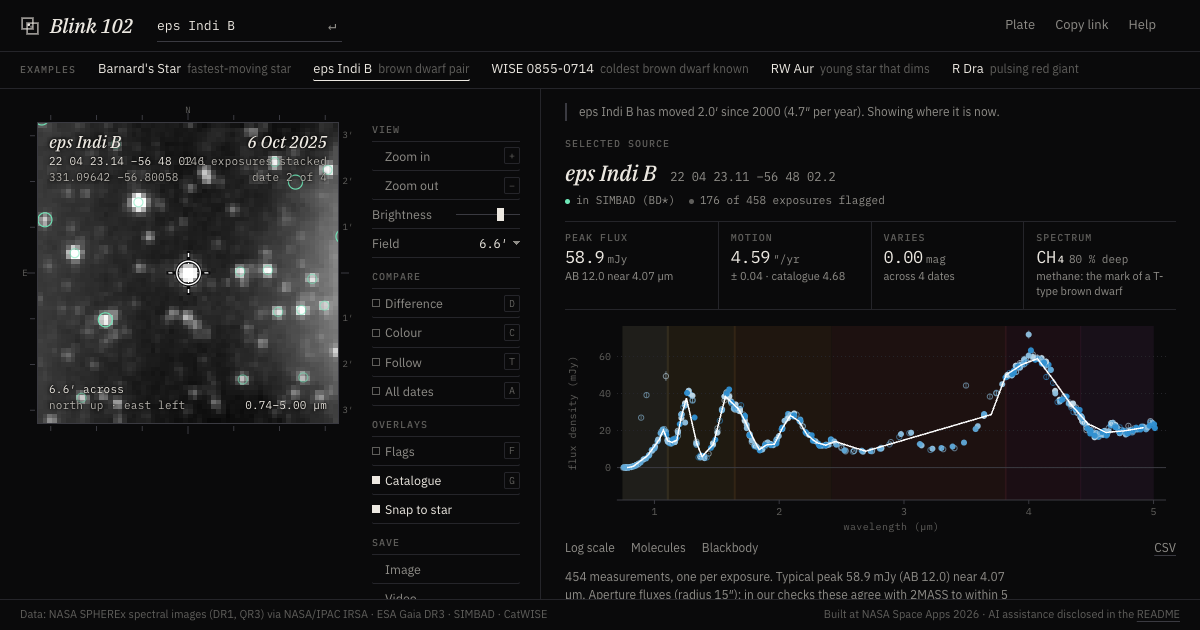
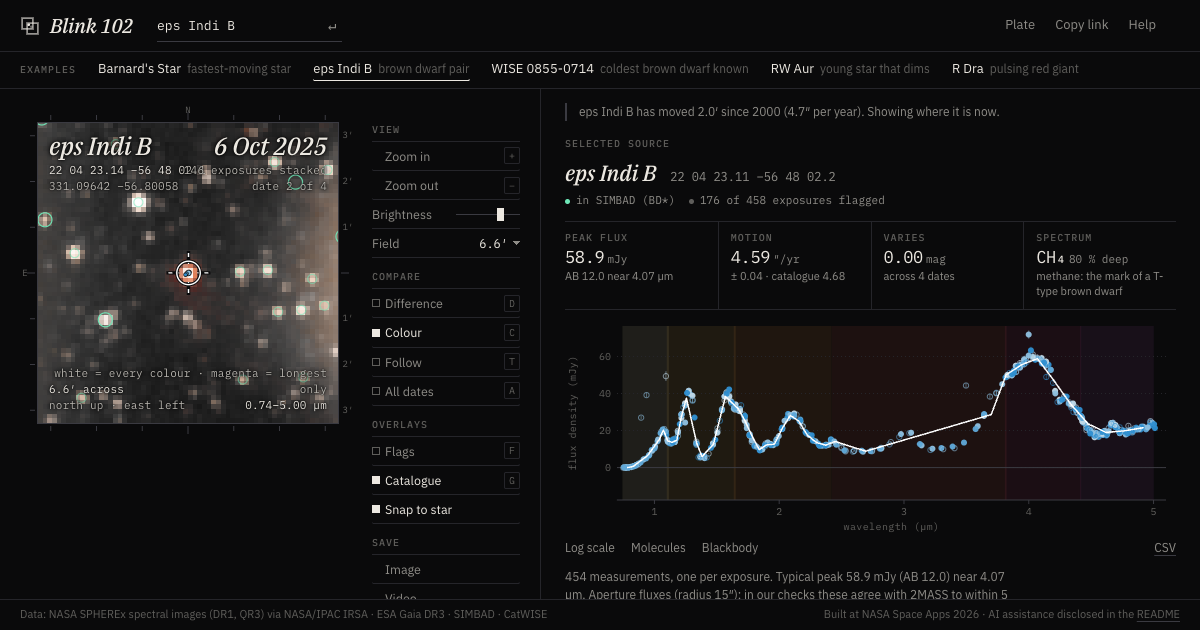
Infrared colour by default, 1930-to-2026 opening, colour-ramp strip with arriving ticks, drawn-in motion track and spectrum, larger type

diff --git a/public/app.js b/public/app.js
@@ -23,6 +23,7 @@ const S = {                      // everything the page shows is derived from th
   lim: null, sel: null, meas: [], peek: null, catalog: [], movers: [], tab: 'lc', log: false, mol: false, bb: false, sweep: null, follow: false, merge: false,
 };
 let cacheIndex = null, dirty = false, timer = null;
+if (/^(localhost|127\.0\.0\.1)$/.test(location.hostname)) window.__S = S;      // dev only: inspect state from the console
 
 // ---------- small helpers ----------
 const rgb = s => s.match(/[\d.]+/g).slice(0, 3).map(Number);
@@ -116,7 +117,7 @@ async function fetchChunks(chunks, gen) {
         if (gen !== S.gen) return;
         for (const e of list) {
           if (!e.ok) { S.failed++; continue; }
-          e.epoch = S.byKey.get(e.key)?.epoch ?? 0;
+          e.epoch = S.byKey.get(e.key)?.epoch ?? 0; e.t = performance.now();
           S.exps.push(e);
         }
       } catch { S.failed += ch.keys?.length || 0; }
@@ -179,21 +180,50 @@ function rawFrames() {
   return S.raw.frames;
 }
 
+// ---------- infrared colour: every wavelength drawn in its own colour from the warm ramp ----------
+const RAMP = ['#F6E8B1', '#F5BE4A', '#F08C3A', '#E2553F', '#CC3B74', '#A24AA8'].map(h => [1, 3, 5].map(i => parseInt(h.slice(i, i + 2), 16) / 255));
+const RAMP_AT = K.DET.map(([a, b]) => Math.log(Math.sqrt(a * b)));
+/** The ramp colour of a wavelength (um): the same colours as the colour bar, interpolated between detector centres. */
+function waveColor(w) {
+  const x = Math.log(w);
+  if (x <= RAMP_AT[0]) return RAMP[0];
+  if (x >= RAMP_AT[5]) return RAMP[5];
+  let i = 0;
+  while (x > RAMP_AT[i + 1]) i++;
+  const u = (x - RAMP_AT[i]) / (RAMP_AT[i + 1] - RAMP_AT[i]);
+  return RAMP[i].map((v, k) => v + (RAMP[i + 1][k] - v) * u);
+}
+/** Colour bins for the current window: six for a wide window (each dot gets its own colour), none for a narrow one (tint). */
+function colourBins() {
+  const narrow = LN(S.wmax / S.wmin) < 0.35, n = narrow ? 0 : 6;
+  const edges = Array.from({ length: n + 1 }, (_, i) => Math.exp(LN(S.wmin) + (LN(S.wmax) - LN(S.wmin)) * i / n));
+  return { narrow, tint: waveColor(Math.sqrt(S.wmin * S.wmax)), edges, cols: edges.slice(0, -1).map((a, i) => waveColor(Math.sqrt(a * edges[i + 1]))) };
+}
+/** Swap light and dark but keep the hue, for the Plate theme. */
+function invertLightness(R, G, B) {
+  const mx = Math.max(R, G, B), mn = Math.min(R, G, B), l = (mx + mn) / 2, d = mx - mn;
+  if (d < 1e-6) return [1 - l, 1 - l, 1 - l];
+  const s = d / (1 - Math.abs(2 * l - 1)), L = 1 - l, C = (1 - Math.abs(2 * L - 1)) * s, m = L - C / 2;
+  return [R, G, B].map(v => m + (v - mn) / d * C);
+}
+const smooth = (x, a, b) => { const u = Math.min(1, Math.max(0, (x - a) / (b - a))); return u * u * (3 - 2 * u); };
+
 // ---------- frames: one stacked picture per date ----------
 const inBand = e => e.wave >= S.wmin && e.wave <= S.wmax;
 function invalidate(restack = true) {
   if (restack) dirty = true;
-  if (!timer) timer = setTimeout(() => { timer = null; if (dirty) { dirty = false; computeFrames(); if (S.sel) measure(); } renderAll(); }, 60);
+  if (!timer) timer = setTimeout(() => { timer = null; if (dirty) { dirty = false; computeFrames(); if (S.sel) measure(); } renderAll();
+    if (S.introPending && S.frames.length > 1 && S.frames.every(Boolean)) { S.introPending = false; intro(); } }, 60);
 }
 
 function computeFrames() {
   if (!S.search) return;
-  const size = S.size, thirds = [0, 1, 2].map(i => Math.exp(LN(S.wmin) + (LN(S.wmax) - LN(S.wmin)) * i / 3)).concat(S.wmax);
+  const size = S.size, bins = S.bins = colourBins();
   const build = (list, ep) => {
     if (!list.length) return null;
     const ex = list.map(viewExp), f = K.stack(ex, size);
     f.count = ex.length; f.mjd = K.median(ex.map(e => e.mjd)); f.epoch = ep; f.span = [Math.min(...ex.map(e => e.mjd)), Math.max(...ex.map(e => e.mjd))];
-    if (S.rgb) f.rgb = [2, 1, 0].map(k => { const sub = ex.filter(e => e.wave >= thirds[k] && e.wave <= thirds[k + 1]); return sub.length ? K.stack(sub, size).img : null; });
+    if (S.rgb && !bins.narrow) f.rgb = bins.cols.map((_, k) => { const sub = ex.filter(e => e.wave >= bins.edges[k] && e.wave <= bins.edges[k + 1]); return sub.length ? K.stack(sub, size).img : null; });
     return f;
   };
   if (S.merge) { const one = build(S.exps.filter(inBand), null); S.frames = S.search.epochs.map(() => one); }      // every date in one deep picture
@@ -208,7 +238,7 @@ function computeFrames() {
   const lims = imgs => { const big = imgs.flatMap(a => Array.from(a)), [med, sig] = K.robust(big); return { lo: med - 2 * sig, sig: sig || 1e-6, hi: K.percentile(big, 0.995) }; };
   S.lim = lims(live.map(f => f.img));           // one set of limits for every date, so brightness changes are real
   if (S.diff) S.lim.dsig = K.robust(live.flatMap(f => Array.from(f.diff)))[1] || 1e-6;
-  if (S.rgb) S.lim.rgb = [0, 1, 2].map(k => { const im = live.map(f => f.rgb[k]).filter(Boolean); return im.length ? lims(im) : null; });
+  if (S.rgb && !bins.narrow) S.lim.rgb = bins.cols.map((_, k) => { const im = live.map(f => f.rgb?.[k]).filter(Boolean); return im.length ? lims(im) : null; });
 }
 
 const stretcher = lim => { const soft = 3 * lim.sig, hi = lim.lo + (lim.hi - lim.lo) * 10 ** -S.bright, d = Math.asinh(Math.max(hi - lim.lo, soft) / soft);
@@ -216,20 +246,42 @@ const stretcher = lim => { const soft = 3 * lim.sig, hi = lim.lo + (lim.hi - lim
 
 /** Paint a frame (or one exposure) into a size x size canvas. Row 0 is south, so rows are flipped. */
 function paint(cv, src) {
-  const size = S.size, plate = document.querySelector('meta[name="color-scheme"]').content === 'light';
+  const size = S.size, plate = S.introPlate ?? document.querySelector('meta[name="color-scheme"]').content === 'light';
   cv.width = cv.height = size;
   const ctx = cv.getContext('2d'), id = ctx.createImageData(size, size), d = id.data;
   if (!src || !S.lim) { ctx.clearRect(0, 0, size, size); return; }
   const st = stretcher(S.lim), nanv = plate ? 235 : 22;
-  const st3 = src.rgb && S.rgb ? S.lim.rgb.map(l => l && stretcher(l)) : null;
+  const colour = S.rgb && !S.diff && !S.introGrey, bins = S.bins || colourBins();
+  // a single exposure, or a narrow window, is tinted with its own colour; a wide window gives every dot its own colour
+  const tint = colour && (src.wave ? waveColor(src.wave) : bins.narrow ? bins.tint : null);
+  // one brightness scale for every colour bin, so a dot's colour is the real shape of its spectrum (flux per frequency)
+  const st6 = colour && !tint && src.rgb ? src.rgb.map(() => st) : null, cols = bins.cols;
   for (let r = 0; r < size; r++) for (let c = 0; c < size; c++) {
     const p = r * size + c, o = ((size - 1 - r) * size + c) * 4;
     let R, G, B;
     if (src.diff && S.diff) { const t = 0.5 + src.diff[p] / (16 * S.lim.dsig * 10 ** -S.bright); R = G = B = t !== t ? NaN : Math.min(1, Math.max(0, t)); }
-    else if (st3) [R, G, B] = st3.map((f, k) => (f && src.rgb[k] ? f(src.rgb[k][p]) : 0));
-    else R = G = B = st(src.img[p]);
+    else if (st6) {
+      // brightness from all colours; hue from where the light is, so a dot bright only at long wavelengths turns magenta
+      let sum = 0, mx = 0, mn = Infinity, cr = 0, cg = 0, cb = 0, n = 0;
+      for (let k = 0; k < st6.length; k++) {
+        if (!st6[k] || !src.rgb[k]) continue;
+        const s = st6[k](src.rgb[k][p]);
+        if (s !== s) continue;
+        n++; sum += s; if (s > mx) mx = s; if (s < mn) mn = s;
+        cr += s * cols[k][0]; cg += s * cols[k][1]; cb += s * cols[k][2];
+      }
+      if (!n) R = G = B = st(src.img[p]);
+      else {
+        const I = Math.min(1, 0.55 * sum / n + 0.45 * mx), top = Math.max(cr, cg, cb) || 1;
+        const sat = Math.min(1, 1.25 * (mx - mn) / (mx + mn + 1e-6)) * smooth(mx, 0.18, 0.5);      // the faint sky stays grey
+        R = I * (1 - sat + sat * cr / top); G = I * (1 - sat + sat * cg / top); B = I * (1 - sat + sat * cb / top);
+      }
+    } else {
+      R = G = B = st(src.img[p]);
+      if (tint && R === R) { const v = R, a = 0.75 * smooth(v, 0.08, 0.45); R = v * (1 - a + a * tint[0]); G = v * (1 - a + a * tint[1]); B = v * (1 - a + a * tint[2]); }      // stars take the colour, the faint sky stays grey
+    }
     if (R !== R) { d[o] = d[o + 1] = d[o + 2] = nanv; d[o + 3] = 255; continue; }
-    if (plate) { R = 1 - R; G = 1 - G; B = 1 - B; }
+    if (plate) [R, G, B] = R === G && G === B ? [1 - R, 1 - G, 1 - B] : invertLightness(R, G, B);
     d[o] = 255 * R; d[o + 1] = 255 * G; d[o + 2] = 255 * B; d[o + 3] = 255;
   }
   ctx.putImageData(id, 0, 0);
@@ -262,7 +314,7 @@ function renderEye(target = $('#img'), over = $('#ovl')) {
   $('#hud-epoch').innerHTML = !ep ? '' : cur.one ? `<b>${fmtDate(cur.mjd)}</b>\n<i>one exposure · detector ${cur.src.det}</i>\n<i>${cur.src.wave.toFixed(3)} µm</i>`
     : S.merge && cur.src ? `<b>All dates</b>\n<i>${cur.src.count} exposures stacked</i>\n<i>${monthYear(cur.src.span[0])} – ${monthYear(cur.src.span[1])}</i>`
     : `<b>${fmtDate(cur.mjd)}</b>\n<i>${cur.src ? `${cur.src.count} exposures stacked` : 'no exposures in this colour range'}</i>\n<i>date ${S.frame + 1} of ${S.search.epochs.length}</i>`;
-  const mode = [S.diff && 'difference', S.rgb && 'colour: short = blue, long = red', S.follow && canFollow() && 'following the selected object'].filter(Boolean).join('\n');
+  const mode = [S.diff && 'difference', S.rgb && !S.diff && ((S.bins || colourBins()).narrow ? 'tinted with this colour' : 'white = every colour · magenta = longest only'), S.follow && canFollow() && 'following the selected object'].filter(Boolean).join('\n');
   $('#hud-wave').innerHTML = `${mode ? `<i>${mode}</i>\n` : ''}${S.wmin.toFixed(2)}–${S.wmax.toFixed(2)} µm`;
   $('#hud-scale').innerHTML = `${(S.size * K.PIX / 60 / S.zoom).toFixed(1)}′ across\n<i>north up · east left</i>`;
   if (target.id === 'img') renderBezel();
@@ -300,6 +352,7 @@ function halo(g, dpr, dash = []) {
 
 function drawOverlay(cv, W, cur) {
   cv.width = cv.height = W;
+  if (S.introOn) return;                       // the opening shows the bare plates
   const g = cv.getContext('2d'), dpr = W / (cv.clientWidth || W), cell = W / view().sw, size = S.size;
   g.lineWidth = 1.2 * dpr;
   const f = S.frames[S.frame];
@@ -342,6 +395,16 @@ function drawOverlay(cv, W, cur) {
     const dt = (cur.mjd - m.mjd0) / 365.25, [x, y] = toScreen(m.col - m.pe * dt / K.PIX - fx, m.row + m.pn * dt / K.PIX - fy, W);
     g.strokeStyle = m.known ? css('--known') : css('--found'); g.lineWidth = 2 * dpr; g.beginPath(); g.arc(x, y, 9 * dpr, 0, 7); g.stroke(); g.lineWidth = 1.2 * dpr;
   }
+  if (S.sel && (S.sel.pmra || S.sel.pmde) && !(S.follow && canFollow()) && S.search) {
+    // where it is on every date, joined in time order: its path across the sky, drawn in when it is selected
+    const pts = S.search.epochs.map((ep, i) => { const [c, r] = selGrid((ep.mjd0 + ep.mjd1) / 2); return [...toScreen(c, r, W), i]; });
+    const u = Math.min(1, (performance.now() - (S.sel.t0 || 0)) / 900), reach = u * (pts.length - 1);
+    g.beginPath(); g.moveTo(pts[0][0], pts[0][1]);
+    for (let i = 1; i < pts.length && i - 1 < reach; i++) { const f = Math.min(1, reach - (i - 1)); g.lineTo(pts[i - 1][0] + (pts[i][0] - pts[i - 1][0]) * f, pts[i - 1][1] + (pts[i][1] - pts[i - 1][1]) * f); }
+    halo(g, dpr, [2 * dpr, 2 * dpr]);
+    for (const [x, y, i] of pts) if (i <= reach + 1e-6) { g.beginPath(); g.arc(x, y, (i === S.frame ? 3.2 : 2.2) * dpr, 0, 7); g.fillStyle = css('--bg'); g.fill(); g.beginPath(); g.arc(x, y, (i === S.frame ? 2.4 : 1.5) * dpr, 0, 7); g.fillStyle = epochColor(i); g.fill(); }
+    if (u < 1) requestAnimationFrame(() => renderEye());
+  }
   if (S.sel) {
     const [c, r] = selGrid(cur.mjd), [x, y] = toScreen(c - fx, r - fy, W);
     g.beginPath(); g.arc(x, y, 2.5 * cell, 0, 7); halo(g, dpr);
@@ -355,7 +418,7 @@ function buildPlates() {
   const box = $('#plates'); box.replaceChildren();
   S.search.epochs.forEach((ep, i) => {
     const b = document.createElement('button');
-    b.type = 'button'; b.className = 'plate'; b.role = 'option'; b.style.setProperty('--pc', epochColor(i));
+    b.type = 'button'; b.className = 'plate'; b.role = 'option'; b.style.setProperty('--pc', epochColor(i)); b.style.setProperty('--i', i);
     b.innerHTML = `<canvas></canvas><span>${esc(ep.label)}</span><small>${ep.n}</small>`;
     b.title = `${fmtDate(ep.mjd0)} to ${fmtDate(ep.mjd1)}: ${ep.n} exposures released`;
     b.onclick = () => { S.frame = i; setPlaying(false); renderAll(); syncUrl(); };
@@ -386,7 +449,7 @@ const xw = x => Math.exp(L0 + Math.min(1, Math.max(0, x)) * (L1 - L0));
 function buildStrip() {
   K.DET.forEach(([a, b], i) => {
     const s = document.createElement('button');
-    s.type = 'button'; s.className = 'seg'; s.style.cssText = `left:${wx(a) * 100}%;width:${(wx(b) - wx(a)) * 100}%;background:var(--d${i + 1})`;
+    s.type = 'button'; s.className = 'seg'; s.style.cssText = `left:${wx(a) * 100}%;width:${(wx(b) - wx(a)) * 100}%`;
     s.textContent = `D${i + 1}`;
     s.title = `Detector ${i + 1}: ${a.toFixed(2)} to ${b.toFixed(2)} µm`;
     s.onclick = () => setWindow(a, b);
@@ -425,10 +488,17 @@ function renderStrip() {
   const win = $('#win'), cv = $('#strip-ticks');
   win.style.left = `${wx(S.wmin) * 100}%`; win.style.width = `${(wx(S.wmax) - wx(S.wmin)) * 100}%`;
   $('#h0').setAttribute('aria-valuetext', `${S.wmin.toFixed(2)} micrometres`); $('#h1').setAttribute('aria-valuetext', `${S.wmax.toFixed(2)} micrometres`);
+  // the strip is the colour ramp itself: each wavelength in the colour the picture uses for it
+  $('#strip').style.background = `linear-gradient(to right, ${K.DET.map(([a, b], i) => `var(--d${i + 1}) ${(wx(Math.sqrt(a * b)) * 100).toFixed(1)}%`).join(', ')})`;
   const dpr = devicePixelRatio, W = cv.width = Math.round(cv.clientWidth * dpr); cv.height = 30 * dpr;
-  const g = cv.getContext('2d'), inN = S.exps.filter(inBand).length;
-  g.fillStyle = css('--ink');
-  for (const e of S.exps) { g.globalAlpha = inBand(e) ? 0.85 : 0.28; g.fillRect(Math.round(wx(e.wave) * (W - dpr)), 3 * dpr, dpr, 7 * dpr); }      // one tick per exposure: where data exists
+  const g = cv.getContext('2d'), inN = S.exps.filter(inBand).length, now = performance.now(), ink = css('--ink');
+  let young = false;
+  for (const e of S.exps) {          // one tick per exposure: where data exists. New arrivals flash in their own colour
+    const age = now - (e.t || 0), x = Math.round(wx(e.wave) * (W - dpr));
+    if (age < 1100) { young = true; const u = age / 1100, c = waveColor(e.wave); g.globalAlpha = 1; g.fillStyle = `rgb(${c.map(v => Math.round(255 * v)).join(',')})`; g.fillRect(x, 0, dpr, (3 + 7 * (1 - u)) * dpr + 7 * dpr * u); continue; }
+    g.fillStyle = ink; g.globalAlpha = inBand(e) ? 0.85 : 0.28; g.fillRect(x, 3 * dpr, dpr, 7 * dpr);
+  }
+  if (young && !S.tickAnim) S.tickAnim = requestAnimationFrame(() => { S.tickAnim = null; renderStrip(); });
   g.globalAlpha = 1; g.fillStyle = css('--faint'); g.font = `${9 * dpr}px "IBM Plex Mono", monospace`; g.textBaseline = 'top';
   for (const w of [0.75, 1, 1.5, 2, 2.5, 3, 4, 5]) { const x = Math.round(wx(w) * (W - dpr)); g.fillRect(x, 13 * dpr, dpr, 4 * dpr); g.textAlign = w === 0.75 ? 'left' : w === 5 ? 'right' : 'center'; g.fillText(w === 5 ? '5 µm' : String(w), x, 19 * dpr); }
   $('#strip-read').innerHTML = `<b>${S.wmin.toFixed(2)}–${S.wmax.toFixed(2)} µm</b>${S.exps.length ? ` · ${inN} of ${S.exps.length} exposures in this window` : ''}`;
@@ -499,7 +569,8 @@ function selectSky(ra, dec, mjd = S.frames[S.frame]?.mjd || K.REF_MJD, forced = 
     if (d < md) { md = d; match = o; }
   }
   if (match && match.src !== 'CatWISE') [ra, dec] = K.apparent(match, mjd);      // a catalogue position is better than a centre found by eye, above all for saturated stars
-  S.sel = { ra, dec, mjd0: mjd, pmra: match?.pmra || 0, pmde: match?.pmde || 0, plx: match?.plx > 0 ? match.plx : 0, match, measuredPm: false };
+  S.sel = { ra, dec, mjd0: mjd, pmra: match?.pmra || 0, pmde: match?.pmde || 0, plx: match?.plx > 0 ? match.plx : 0, match, measuredPm: false, t0: performance.now() };
+  S.animate = true;
   measure(); syncUrl();
   if (S.follow) { computeFrames(); renderAll(); } else renderEye();
 }
@@ -619,7 +690,9 @@ function drawSpectrum() {
   const pk = line.reduce((a, b) => (b[1] > a[1] ? b : a), [0, -Infinity]);
   S.peak = line.length ? { val: pk[1].toFixed(dp), unit, ab: K.abMag(pk[1] * u).toFixed(1), wave: pk[0].toFixed(2) } : null;
   const bbLine = S.bb && S.read ? [{ pts: Array.from({ length: 80 }, (_, i) => { const w = 0.75 + i * 4.25 / 79; return [w, S.read.model(w) / u]; }), color: css('--mute'), dash: '3 3', label: `${Math.round(S.read.T / 100) * 100} K blackbody` }] : [];
+  const animate = S.animate; S.animate = false;
   scatter($('#ch-spec'), {
+    animate,
     empty: 'Core saturated in every exposure: no spectrum',
     points: (line.length ? usable : []).map(m => ({ x: m.wave, y: m.flux / u, e: m.err / u, color: epochColor(m.e.epoch), hollow: m.flagged || m.sat, data: m,
       tip: `${m.wave.toFixed(3)} µm · ${fmtDate(m.e.mjd)}\n${(m.flux / u).toFixed(dp)} ± ${(m.err / u).toFixed(dp)} ${unit}${m.flux > 0 ? ` (AB ${K.abMag(m.flux).toFixed(2)})` : ''}${m.flagged ? '\nflagged pixel in aperture' : m.sat ? '\nnear saturation' : ''}` })),
@@ -756,6 +829,34 @@ async function scan() {             // measure the motion of every dot in the co
   buildField(); renderEye();
 }
 
+// ---------- the opening, once per visitor: 1930 on glass, then 2026 in colour ----------
+async function intro() {
+  const eye = $('#eye'), box = document.createElement('div'), wait = ms => new Promise(r => setTimeout(r, ms));
+  let skipped = false;
+  const skip = () => { skipped = true; };
+  box.className = 'intro plate-phase';
+  box.innerHTML = '<p class="i-year">1930</p><p class="i-line">Pluto was found by blinking two photographs on glass.</p><button class="i-skip" type="button">Skip</button>';
+  eye.append(box); eye.classList.add('intro-on');
+  box.onclick = skip; addEventListener('keydown', skip, { once: true });
+  const was = { zoom: S.zoom, vx: S.vx, vy: S.vy };
+  setPlaying(false); S.introOn = true; S.introPlate = true; S.introGrey = true; S.zoom = 1.6; S.vx = S.vy = S.size / 2;
+  const ends = [0, S.frames.length - 1];
+  for (let i = 0; i < 7 && !skipped; i++) { S.frame = ends[i % 2]; renderEye(); await wait(i ? 430 : 700); }      // the star jumps
+  if (!skipped) {
+    box.className = 'intro'; box.querySelector('.i-year').textContent = '2026';
+    box.querySelector('.i-line').textContent = 'NASA’s SPHEREx photographs the whole sky in 102 infrared colours.';
+    S.introPlate = undefined; S.introGrey = false; S.introOn = false; eye.classList.add('reveal');
+    Object.assign(S, was); renderAll();
+    await Promise.race([wait(2600), new Promise(r => { const t = setInterval(() => skipped && (clearInterval(t), r()), 50); })]);
+  }
+  S.introOn = false; S.introPlate = undefined; S.introGrey = false; Object.assign(S, was);
+  box.classList.add('out'); eye.classList.remove('intro-on');
+  setTimeout(() => { box.remove(); eye.classList.remove('reveal'); }, 500);
+  removeEventListener('keydown', skip);
+  try { localStorage.setItem('blink-intro', '1'); } catch {}
+  renderAll(); setPlaying(true);
+}
+
 // ---------- play ----------
 let playTimer = null;
 function setPlaying(on) {
@@ -780,7 +881,7 @@ function syncUrl() {
   if (S.size !== 64) p.set('fov', S.size);
   if (S.wmin > K.WMIN + 1e-3 || S.wmax < K.WMAX - 1e-3) { p.set('wmin', S.wmin.toFixed(3)); p.set('wmax', S.wmax.toFixed(3)); }
   if (!S.playing) p.set('epoch', S.frame + 1);
-  if (S.diff) p.set('mode', 'difference'); else if (S.rgb) p.set('mode', 'colour');
+  if (S.diff) p.set('mode', 'difference'); else if (!S.rgb) p.set('mode', 'grey');
   if (S.sel) p.set('sel', `${S.sel.ra.toFixed(5)},${S.sel.dec.toFixed(5)}`);
   if (params.has('embed')) p.set('embed', 1);
   if (API) p.set('api', API);
@@ -941,8 +1042,10 @@ async function start() {
   if (params.get('fov')) { S.size = Math.min(160, Math.max(24, +params.get('fov') || 64)); $('#t-fov').value = S.size; }
   if (params.get('wmin')) { S.wmin = Math.max(K.WMIN, +params.get('wmin')); S.wmax = Math.min(K.WMAX, +params.get('wmax') || K.WMAX); }
   if (params.get('mode') === 'difference') { S.diff = true; $('#t-diff').setAttribute('aria-pressed', true); }
-  if (params.get('mode') === 'colour') { S.rgb = true; $('#t-rgb').setAttribute('aria-pressed', true); }
+  S.rgb = !['grey', 'difference'].includes(params.get('mode')); $('#t-rgb').setAttribute('aria-pressed', S.rgb);
   if (params.get('epoch')) { S.frame = Math.max(0, +params.get('epoch') - 1); S.playing = false; }
+  try { S.introPending = !location.search && !localStorage.getItem('blink-intro') && !matchMedia('(prefers-reduced-motion: reduce)').matches; } catch {}
+  if (params.has('intro')) S.introPending = true;
   setPlaying(S.playing);
   const q = params.get('target') || (params.get('ra') ? `${params.get('ra')} ${params.get('dec')}` : PRESETS[0]);     // it never opens empty
   go(q, { keepView: params.has('epoch') });

diff --git a/public/style.css b/public/style.css
@@ -91,13 +91,28 @@ main { flex: 1; min-height: 0; display: grid; grid-template-columns: auto minmax
   pointer-events: none; padding: 9px 11px; white-space: pre-line; font-variant-numeric: tabular-nums; }
 .hud.tl { top: 0; left: 0; } .hud.tr { top: 0; right: 0; text-align: right; }
 .hud.bl { bottom: 0; left: 0; } .hud.br { bottom: 0; right: 0; text-align: right; }
-.hud b { font: italic 500 17px/1.25 var(--serif); letter-spacing: 0; display: inline-block; margin-bottom: 1px; }
+.hud b { font: italic 500 25px/1.1 var(--serif); letter-spacing: -.015em; display: inline-block; margin-bottom: 4px; }
 .hud i { font-style: normal; color: light-dark(#4d4a43, #b9b6b0); }
 .load { position: absolute; left: 50%; bottom: 14px; translate: -50% 0; font: 11px var(--mono); color: var(--ink); text-shadow: 0 0 4px var(--sky), 0 0 2px var(--sky); pointer-events: none; }
 .load:empty { display: none; }
 .bar { position: absolute; left: 0; right: 0; bottom: 0; height: 2px; pointer-events: none; }
 .bar i { display: block; height: 100%; width: 0; background: var(--t1); transition: width .2s linear, opacity .4s .3s; }
 .bar i.done { opacity: 0; }
+
+/* the opening */
+.intro { position: absolute; inset: 0; z-index: 3; display: flex; flex-direction: column; justify-content: flex-end; gap: 6px; padding: 26px 26px 30px; cursor: pointer;
+  background: linear-gradient(to top, #000d 0%, #0008 32%, transparent 60%); color: #ECE8E1; animation: in .5s ease-out both; }
+.intro.plate-phase { background: linear-gradient(to top, #F7F4ECf0 0%, #F7F4EC99 34%, transparent 62%); color: #1B1A17; }
+.intro.out { animation: out .5s ease-in both; }
+.i-year { margin: 0; font: italic 500 64px/1 var(--serif); letter-spacing: -.03em; }
+.i-line { margin: 0; font: italic 19px/1.35 var(--serif); max-width: 28ch; }
+.i-skip { position: absolute; top: 14px; right: 16px; font: 10px var(--mono); letter-spacing: .1em; text-transform: uppercase; color: inherit; opacity: .6; }
+.intro-on .hud, .intro-on .load { opacity: 0; }
+.reveal #img { animation: in 1s ease-out both; }
+@keyframes in { from { opacity: 0; } }
+@keyframes out { to { opacity: 0; } }
+@keyframes rise { from { opacity: 0; translate: 0 8px; } }
+.plate, .gap { animation: rise .55s cubic-bezier(.2, .7, .2, 1) both; animation-delay: calc(var(--i, 0) * 70ms); }
 
 /* tool rail: a list, not a wall of boxes. State is a small square and ink. */
 .tools { width: var(--rail); flex: none; display: flex; flex-direction: column; padding-top: var(--bz); }
@@ -139,9 +154,11 @@ input[type=range]::-moz-range-thumb { width: 7px; height: 13px; background: var(
 .strip-read { margin: 0 0 5px; display: flex; justify-content: space-between; align-items: baseline; font: 11px var(--mono); color: var(--mute); font-variant-numeric: tabular-nums; }
 .strip-read b { color: var(--ink); font-weight: 500; }
 .strip-btns { display: flex; gap: 16px; font-family: var(--sans); font-size: 12px; }
-.strip { position: relative; height: 26px; user-select: none; touch-action: none; overflow: hidden; }
+.strip { position: relative; height: 30px; user-select: none; touch-action: none; overflow: hidden; }
 .segs { position: absolute; inset: 0; }
-.seg { position: absolute; top: 0; bottom: 0; border-radius: 0; padding: 0 5px; font: 500 10px/26px var(--mono); letter-spacing: .06em; text-align: left; color: light-dark(#fff, #0A0A0B); overflow: hidden; box-shadow: inset -1px 0 0 var(--bg); }
+.seg { position: absolute; top: 0; bottom: 0; border-radius: 0; padding: 0 6px; font: 500 10px/30px var(--mono); letter-spacing: .06em; text-align: left; color: light-dark(#fff, #0A0A0B); overflow: hidden; box-shadow: inset -1px 0 0 light-dark(#fff6, #0A0A0B66); mix-blend-mode: normal; }
+.seg:nth-child(n+4) { color: #fff; }
+.seg:hover { background: light-dark(#fff2, #0A0A0B22); }
 .win { position: absolute; top: 0; bottom: 0; box-shadow: 0 0 0 100vmax light-dark(#F3EFE6c8, #0A0A0Bc8); outline: 1.5px solid var(--sel); outline-offset: -1.5px; cursor: grab; }
 .win .h { position: absolute; top: 0; bottom: 0; width: 14px; cursor: ew-resize; }
 .win .h0 { left: -7px; } .win .h1 { right: -7px; }
@@ -210,7 +227,7 @@ dialog::backdrop { background: #000a; overflow: hidden; overscroll-behavior: con
 
 /* interface motion only; the image itself never animates except the blink and the sweep */
 button, .plate canvas { transition: color .14s ease-out, border-color .14s ease-out, opacity .14s ease-out; }
-@media (prefers-reduced-motion: reduce) { * { transition: none !important; } }
+@media (prefers-reduced-motion: reduce) { * { transition: none !important; animation: none !important; } }
 
 /* embed: only the eyepiece, the plate rack and the filter strip */
 .embed { --eye: clamp(240px, min(calc(100dvh - 190px), calc(100vw - 80px)), 900px); }

diff --git a/public/index.html b/public/index.html
@@ -67,7 +67,7 @@ try { const t = localStorage.getItem('blink-theme'); if (t) document.querySelect
         <label class="row" for="t-fov">Field<select id="t-fov"><option value="48">4.9′</option><option value="64" selected>6.6′</option><option value="96">9.8′</option><option value="128">13′</option><option value="160">16′</option></select></label>
         <h3>Compare</h3>
         <button id="t-diff" type="button" class="row" aria-pressed="false" title="Each date minus the others: a mover shows as a bright and dark pair">Difference<kbd>D</kbd></button>
-        <button id="t-rgb" type="button" class="row" aria-pressed="false" title="Three wavelength ranges as blue, green, red: cold objects look red">Colour<kbd>C</kbd></button>
+        <button id="t-rgb" type="button" class="row" aria-pressed="true" title="Each dot in its own infrared colour: white is bright at every colour, magenta only at the longest">Colour<kbd>C</kbd></button>
         <button id="t-follow" type="button" class="row" aria-pressed="false" title="Hold the selected object still and let the sky move behind it">Follow<kbd>T</kbd></button>
         <button id="t-all" type="button" class="row" aria-pressed="false" title="Stack every date into one deep picture">All dates<kbd>A</kbd></button>
         <h3>Overlays</h3>
@@ -155,6 +155,7 @@ try { const t = localStorage.getItem('blink-theme'); if (t) document.querySelect
     <li><b>The picture</b> is the same small patch of sky, photographed by NASA's SPHEREx telescope on different dates. It flips between dates, so anything that moved or changed brightness catches your eye.</li>
     <li><b>The row of small pictures</b> is one picture per date. Each is built by stacking every exposure SPHEREx took of this spot during that pass.</li>
     <li><b>The colour bar</b> is infrared wavelength, 0.75 to 5.0 µm in 102 steps. Drag the window to choose which colours go into the picture. Some objects only exist at one end.</li>
+    <li><b>The colours in the picture are real.</b> Each wavelength is drawn in its colour from the bar, so a star bright at every wavelength looks white and a cold brown dwarf, bright only at the long end, looks red to magenta.</li>
     <li><b>Click a star</b> to measure it in every exposure: its spectrum, how its brightness changed, and how fast it moves.</li>
     <li><b>Green rings</b> are stars already in catalogues, drawn where they should be on each date. A dot that moves with no ring is worth a second look.</li>
   </ol>

diff --git a/public/charts.js b/public/charts.js
@@ -74,18 +74,24 @@ export function scatter(svg, o) {
     svg.append(el('path', { d: `M${x0} ${m.t - 2}v-4H${x1}v4`, class: 'ch-mark' }));
     svg.append(el('text', { x: (x0 + x1) / 2, y: m.t - 9, 'text-anchor': 'middle', class: 'ch-tick' }, k.label));
   }
-  const g = el('g');
+  const g = el('g'), lines = el('g');
+  if (o.animate && !matchMedia('(prefers-reduced-motion: reduce)').matches) {
+    const id = `wipe${Math.random().toString(36).slice(2, 8)}`, cp = el('clipPath', { id }), r = el('rect', { x: 0, y: 0, width: 0, height: H });
+    r.append(el('animate', { attributeName: 'width', from: 0, to: W, dur: '1.1s', fill: 'freeze', calcMode: 'spline', keyTimes: '0;1', keySplines: '.25 .7 .2 1' }));
+    cp.append(r); svg.append(cp);
+    g.setAttribute('clip-path', `url(#${id})`); lines.setAttribute('clip-path', `url(#${id})`);
+  }
   for (const p of pts) {
     if (p.e > 0 && !o.ylog) g.append(el('line', { x1: X(p.x), x2: X(p.x), y1: Y(p.y - p.e), y2: Y(p.y + p.e), stroke: p.color, 'stroke-width': 1, opacity: 0.45 }));
     g.append(el('circle', { cx: X(p.x), cy: Y(p.y), r: p.hollow ? 2.6 : 3, fill: p.hollow ? 'none' : p.color, stroke: p.color, 'stroke-width': p.hollow ? 1 : 0, opacity: p.hollow ? 0.6 : 0.95 }));
   }
-  svg.append(g);
+  svg.append(g, lines);
   for (const l of o.lines || []) {
     const d = l.pts.filter(q => isFinite(q[1]) && (!o.ylog || q[1] > 0)).map((q, i) => `${i ? 'L' : 'M'}${X(q[0]).toFixed(1)} ${Y(q[1]).toFixed(1)}`).join('');
-    if (d) svg.append(el('path', { d, fill: 'none', stroke: l.color || 'currentColor', 'stroke-width': l.width || 1.5, 'stroke-dasharray': l.dash || '' }));
+    if (d) lines.append(el('path', { d, fill: 'none', stroke: l.color || 'currentColor', 'stroke-width': l.width || 1.5, 'stroke-dasharray': l.dash || '', 'stroke-linejoin': 'round' }));
     if (l.label && l.pts.length) {
       const q = l.pts[l.pts.length - 1];
-      svg.append(el('text', { x: Math.min(X(q[0]) + 4, W - m.r - 2), y: Y(q[1]) - 5, 'text-anchor': 'end', class: 'ch-tick' }, l.label));
+      lines.append(el('text', { x: Math.min(X(q[0]) + 4, W - m.r - 2), y: Y(q[1]) - 5, 'text-anchor': 'end', class: 'ch-tick' }, l.label));
     }
   }
   // hover: nearest point within 24 px, a ring on it and a tooltip

diff --git a/README.md b/README.md
@@ -12,7 +12,7 @@ Built during NASA Space Apps Challenge 2026 (14–15 November 2026) for the chal
 
 Type a sky position or an object name. Blink 102 finds every image NASA's SPHEREx telescope has released of that spot, lines them all up, and flips between dates like a blink comparator, the instrument Clyde Tombaugh used to find Pluto in 1930. Anything that moved or changed brightness catches the eye.
 
-SPHEREx photographs the sky in 102 infrared colours, so Blink 102 also lets you:
+SPHEREx photographs the sky in 102 infrared colours, and Blink 102 shows them: each wavelength is drawn in its own colour from the colour bar, with one brightness scale for all of them, so a dot's colour is the real shape of its spectrum. Ordinary stars look white to amber; a cold brown dwarf, bright only at the long end, glows red to magenta. Blink 102 also lets you:
 
 - **choose the colours** that go into the picture with one slider (or press **Sweep** to slide through all of them);
 - **click any star** to get its spectrum, its brightness over time and its measured motion, from every single exposure;
